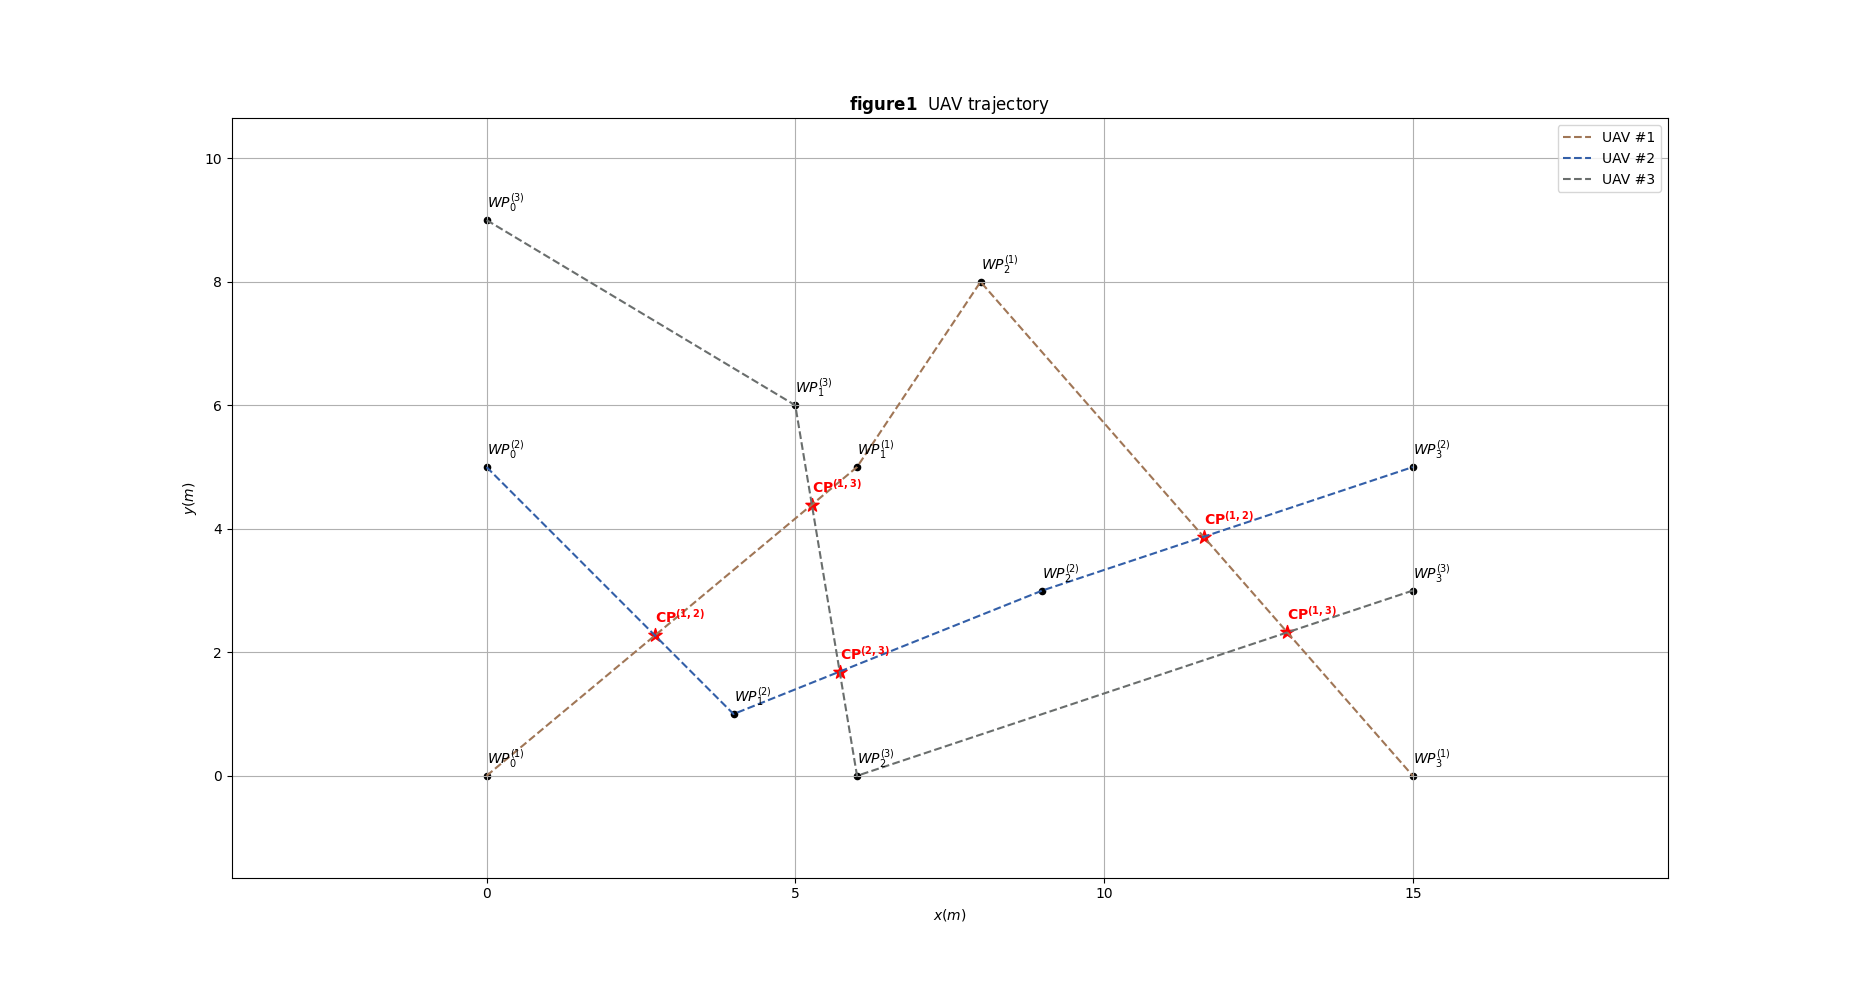
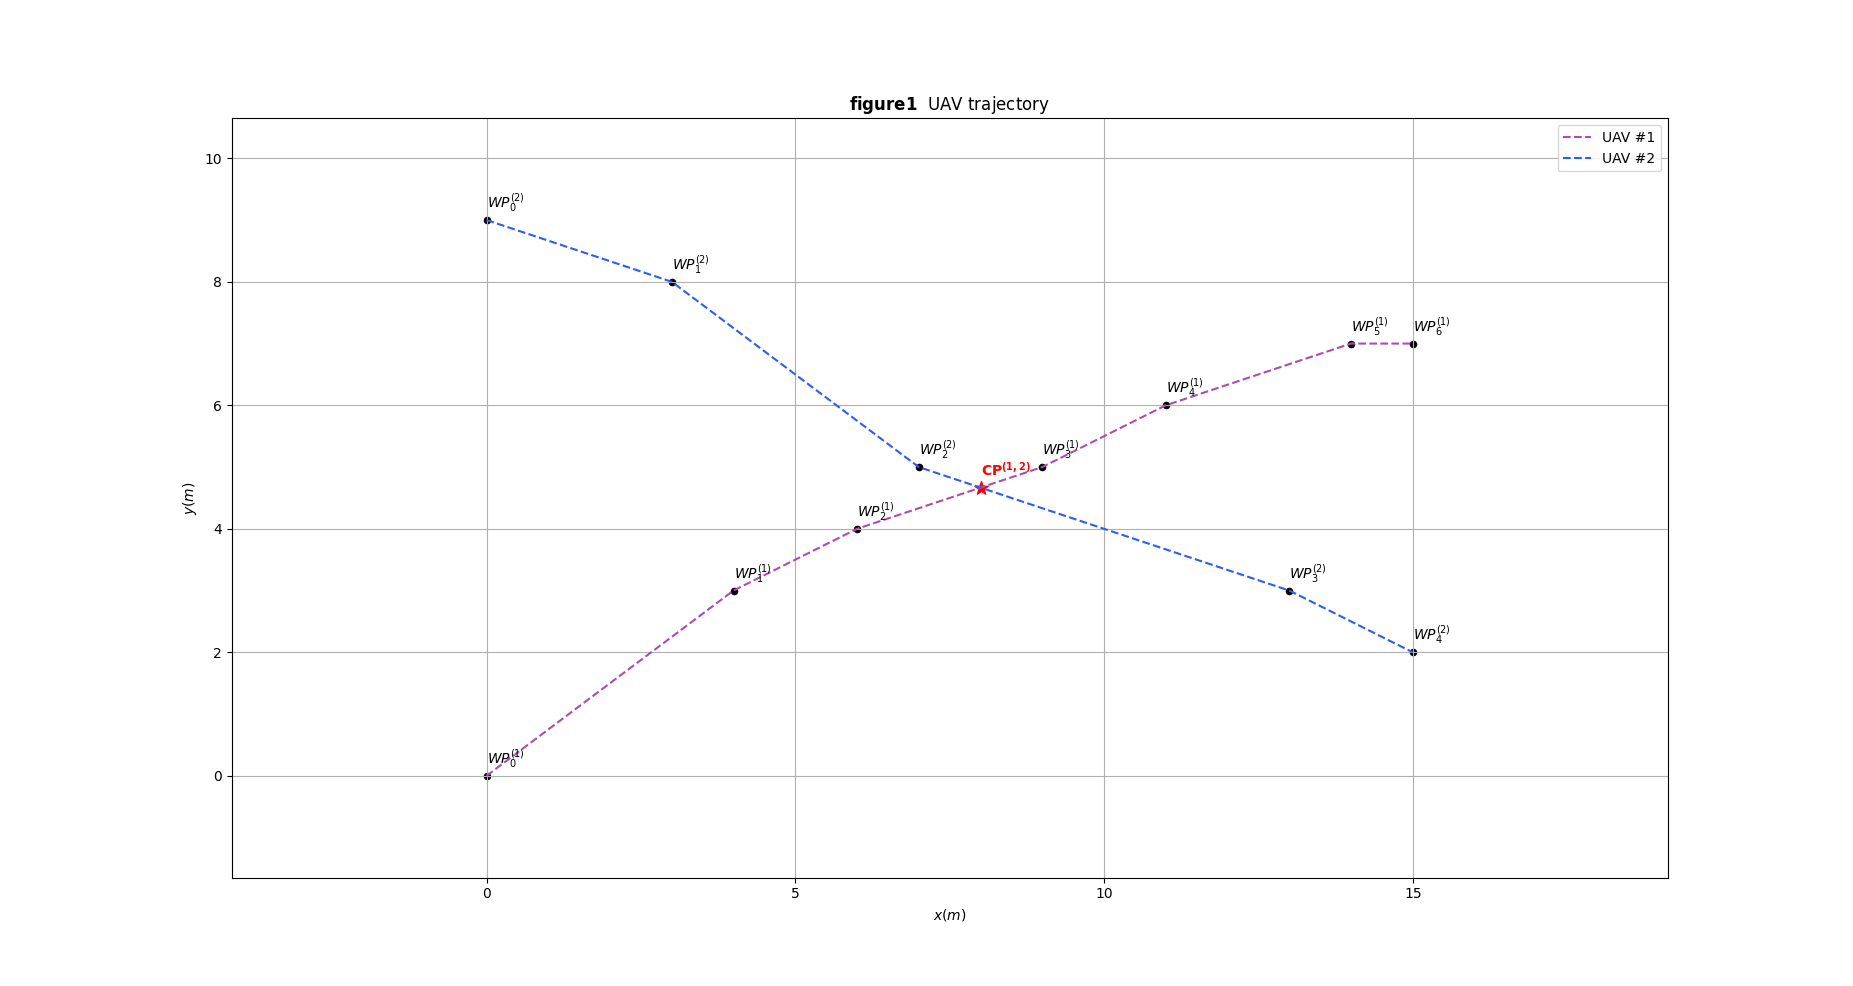
Algorithm edited
the criteria to determine the sign of the abs value |ti_c - tj_c| changed

distance from n'th wp to collision point

=> distance from start point to collision point
     
     = ( di_1 + di_2 + ... + di_n ) + di_c

diff --git a/sim.py b/sim.py
@@ -25,7 +25,7 @@ class Simulator:
 
     '''
 
-    def __init__(self, delt, UAVs, v_min, v_max, d_safe, viz = True):
+    def __init__(self, delt, UAVs, v_min, v_max, d_safe, avoidance=True, viz = [True,True,True]):
         
         self.delt = delt
 
@@ -41,26 +41,13 @@ class Simulator:
 
         self.viz = viz
 
+        self.avoidance = avoidance
+
 
 
 
     def visuallize(self):
         
-        fig1 = plt.figure("Trajectory")
-        # fig2 = plt.figure("Relative Distances")
-        # fig3 = plt.figure("Velocity Data")
-
-        ''' Trajectory Plot '''
-
-        traj = fig1.add_subplot(1,1,1)
-
-        # traj.set_title(r"$\bf figure 1$  UAV trajectory")
-        traj.set_xlabel(r"$\bf x(m)$",fontsize=10)
-        traj.set_ylabel(r"$\bf y(m)$",fontsize=10)
-        traj.set_xlim(-1,11)
-        traj.set_ylim(-1,11)
-
-
 
         t_set = []
         uav_pose_xmax = []
@@ -77,10 +64,6 @@ class Simulator:
             uav_pose_ymin.append(np.min(uav.traj[1]))
 
         total_timesteps = max(t_set)
-        traj.set_xlim(min(uav_pose_xmin),max(uav_pose_xmax))
-        traj.set_ylim(min(uav_pose_ymin),max(uav_pose_ymax))
-        traj.axis('equal')
-
 
         for uav in self.UAVs:
 
@@ -92,33 +75,133 @@ class Simulator:
             traj_expanded[1] = np.hstack((uav.traj[1],uav.traj[1,-1]*np.ones(waiting_time)))
 
             uav.traj = traj_expanded
+
+
+        if self.viz[0]:
+
+            fig1 = plt.figure("Trajectory")
+
+            ''' Trajectory Plot '''
+
+            traj = fig1.add_subplot(1,1,1)
+
+            traj.set_title(r"$\bf figure 1$  UAV trajectory")
+            traj.set_xlabel(r"$\bf x(m)$",fontsize=10)
+            traj.set_ylabel(r"$\bf y(m)$",fontsize=10)
+            traj.set_xlim(-1,11)
+            traj.set_ylim(-1,11)
+
+            traj.set_xlim(min(uav_pose_xmin),max(uav_pose_xmax))
+            traj.set_ylim(min(uav_pose_ymin),max(uav_pose_ymax))
+            traj.grid()
+            traj.axis('equal')
+
+
+            for uav in self.UAVs:
+                
+                traj.plot(uav.traj[0],uav.traj[1],'--',label=r'$UAV^{(%d)}$'%(uav.num))
+
+
+            uav_position = traj.plot([],[],'k*',markersize=10)[0]
+
+
+            def update(timestep):
+
+                traj_x = []
+                traj_y = []
+
+                for uav in self.UAVs:
+
+                    traj_x.append(uav.traj[0,timestep])
+                    traj_y.append(uav.traj[1,timestep])
+
+                uav_position.set_data(traj_x,traj_y)
             
-            traj.plot(uav.traj[0],uav.traj[1],'--',label=r'$UAV^{(%d)}$'%(uav.num))
 
-        uav_position = traj.plot([],[],'k*',markersize=10)[0]
+            sim = FuncAnimation(fig=fig1, func=update, frames=total_timesteps, interval=0.1) 
+            # sim.save('Senario3_MDCA.gif', fps=30, dpi=100)
 
-        def update(timestep):
+            traj.legend()
 
-            traj_x = []
-            traj_y = []
+
+        if self.viz[1]:
+            
+            fig2 = plt.figure("Relative Distances")
+
+            ''' Relative Position Plot '''
+
+            rel = fig2.add_subplot(1,1,1)
+
+            rel.set_title(r"$\bf figure 2$  Relative Position")
+            rel.set_xlabel(r"$\bf time\;(s)$",fontsize=10)
+            rel.set_ylabel(r"$\bf Relative\;Distance\;(m)$",fontsize=10)
+                
+
+            for i in range(len(self.UAVs)):
+                for j in range(len(self.UAVs) - i - 1):
+
+                    rel.plot( np.arange(0,total_timesteps,1), \
+                              np.linalg.norm(self.UAVs[i].traj-self.UAVs[i+j+1].traj,2,axis=0),'-',\
+                              color = np.random.rand(3,) ,\
+                              label=r'$UAV^{(%d)}$ & $UAV^{(%d)}$'%(self.UAVs[i].num,self.UAVs[j+i+1].num))
+
+
+            rel.hlines( self.d_safe, 0, total_timesteps, label=r"$d_{safety}$")
+            rel.legend()
+
+
+        if self.viz[2]:
+
+            fig3 = plt.figure("Velocity Data")
+
 
             for uav in self.UAVs:
 
-                traj_x.append(uav.traj[0,timestep])
-                traj_y.append(uav.traj[1,timestep])
+                vel = fig3.add_subplot(len(self.UAVs),1,uav.num)
+                vel.set_ylim(self.v_min-2,self.v_max+2)
+                vel.set_xlim(0, total_timesteps*self.delt)
 
-            uav_position.set_data(traj_x,traj_y)
-        
-        sim = FuncAnimation(fig=fig1, func=update, frames=total_timesteps, interval=0.1) 
-        
-        traj.legend()
+                vel.set_title(r"$\bf UAV^{(%d)}$"%(uav.num), loc="left",fontsize=10)
+                vel.set_xlabel(r"$time\;(s)$",fontsize=10)
+                vel.set_ylabel(r"$Velocity\;(m/s)$",fontsize=10)
+
+
+                t_set = uav.t 
+                v_set = uav.v 
+
+                for i in range(len(t_set)):
+    
+                    try:
+
+                        t_set = np.insert(t_set,2*i,t_set[2*i])
+                        v_set = np.insert(v_set,2*i,v_set[2*i])
+
+                    except:
+                        
+                        pass
+
+
+                t_set = t_set[:-1]
+                t_set = np.insert(t_set,0,0)
+
+                if t_set[-1] < total_timesteps*self.delt:
+
+                    t_set = np.append( t_set, np.array([t_set[-1],total_timesteps*self.delt]) )
+                    v_set = np.append( v_set, np.array([0,0]) )
+ 
+                vel.hlines(self.v_max, 0, t_set[-1], color="red", linestyles='--', label="Max velocity")
+                vel.hlines(self.v_min, 0, t_set[-1], color="green", linestyles='--', label="Min velocity")
+                vel.plot(t_set, v_set, color="black", linewidth=2, label="Velocity")
+                vel.legend(loc='lower left')
+                vel.grid()
+
         plt.show()
 
 
 
     def run(self):
 
-        self.mdca.run(avoidance=True)
+        self.mdca.run(avoidance=self.avoidance)
 
         for uav in self.UAVs:
 
@@ -142,9 +225,10 @@ if __name__ == "__main__":
     # UAVs = [uav1,uav2]
 
 
-    '''senario #2'''
-    # wp1 = np.array([[0,0], [4,0], [4,5], [10,5]])
-    # wp2 = np.array([[0,6], [3,6], [3,1], [10,1]])
+
+    '''test #1'''
+    # wp1 = np.array([[0,0], [18,0], [20,10]])
+    # wp2 = np.array([[0,10], [5,10], [10,10], [18,10], [20,0]])
 
     # uav1 = UAV(1,wp1)
     # uav2 = UAV(2,wp2)
@@ -152,20 +236,31 @@ if __name__ == "__main__":
     # UAVs = [uav1,uav2]
 
 
-    '''senario #3'''
-    wp1 = np.array([[0,0], [15,15]])
-    wp2 = np.array([[0,3], [15,3]])
-    wp3 = np.array([[0,6], [15,6]])
-    wp4 = np.array([[0,9], [15,9]])
-    wp5 = np.array([[0,12], [15,12]])
+
+    '''senario #2'''
+    wp1 = np.array([[0,0], [4,3], [6,4], [9,5], [11,6], [14,7], [15,7]])
+    wp2 = np.array([[0,9], [3,8], [7,5], [13,3], [15,2]])
 
     uav1 = UAV(1,wp1)
     uav2 = UAV(2,wp2)
-    uav3 = UAV(3,wp3)
-    uav4 = UAV(3,wp4)
-    uav5 = UAV(3,wp5)
 
-    UAVs = [uav1,uav2,uav3,uav4,uav5]
+    UAVs = [uav1,uav2]
+
+
+    '''senario #3'''
+    # wp1 = np.array([[0,0], [15,15]])
+    # wp2 = np.array([[0,3], [15,3]])
+    # wp3 = np.array([[0,6], [15,6]])
+    # wp4 = np.array([[0,9], [15,9]])
+    # wp5 = np.array([[0,12], [15,12]])
+
+    # uav1 = UAV(1,wp1)
+    # uav2 = UAV(2,wp2)
+    # uav3 = UAV(3,wp3)
+    # uav4 = UAV(3,wp4)
+    # uav5 = UAV(3,wp5)
+
+    # UAVs = [uav1,uav2,uav3,uav4,uav5]
 
 
     '''senario #4'''
@@ -180,6 +275,11 @@ if __name__ == "__main__":
 
     # UAVs = [uav1,uav2,uav3]
     
-
-    SIM = Simulator(0.01,UAVs,5,10,2)
+    ### visualize ###
+    Traj=False
+    Reldist=False
+    Vel=True
+    #################
+    
+    SIM = Simulator(0.01,UAVs,1,10,3,avoidance=True,viz=[Traj,Reldist,Vel])
     SIM.run()

diff --git a/mdca.py b/mdca.py
@@ -203,6 +203,10 @@ class MDCA:
                     dj_m = self.UAVs[j].d[jk+1]     # d^j_m   : d_m of j'th uav
                     dj_c = indexes[5]               # d^j_c   : d_col of j'th uav                
 
+                # total distance from start point to collision point
+                sum_di_c = np.sum(self.UAVs[i].d[:ik])+di_c
+                sum_dj_c = np.sum(self.UAVs[j].d[:jk])+dj_c
+
 
                 ### t_safety definition ###
                 t_safety = (self.d_safe/di_n)*(ti_n2-ti_n1)
@@ -211,14 +215,21 @@ class MDCA:
                 ### ti_c, tj_c definition ###
                 ti_c = (di_c/di_n)*(ti_n2-ti_n1) 
                 tj_c = (dj_c/dj_m)*(tj_m2-tj_m1) 
+                
 
                 ### Case 1 : ti_c > tj_c ###
-                if di_n/di_c > dj_m/dj_c:
+                if sum_di_c >= sum_dj_c:
+
+                    # print(f"t{i}_c > t{j}_c")
+                    # print(f"d{i}_{ik} : {di_n} \nd{j}_{jk} : {dj_m}")
 
                     const += [ t_safety - ti_c + tj_c <= 0 ]
 
                 ### Case 2 : ti_c < tj_c ###
                 else:
+
+                    # print(f"t{i}_c < t{j}_c")
+                    # print(f"d{i}_{ik} : {di_n} \nd{j}_{jk} : {dj_m}")
 
                     const += [ t_safety + ti_c - tj_c <= 0 ]        
 
